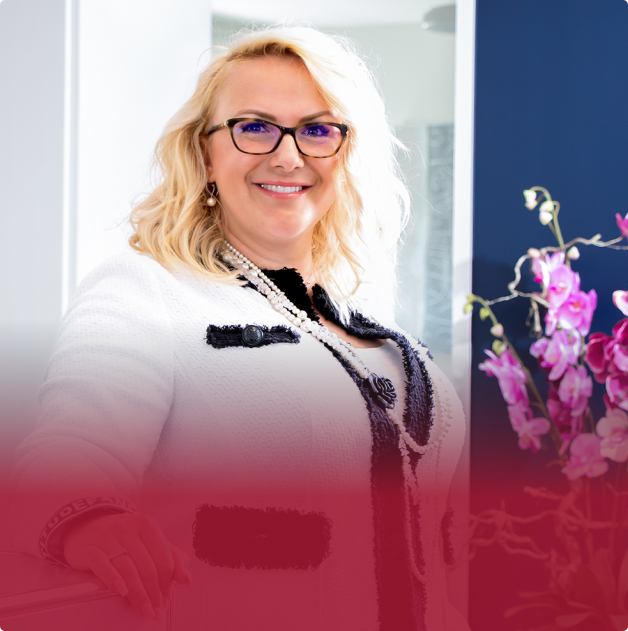
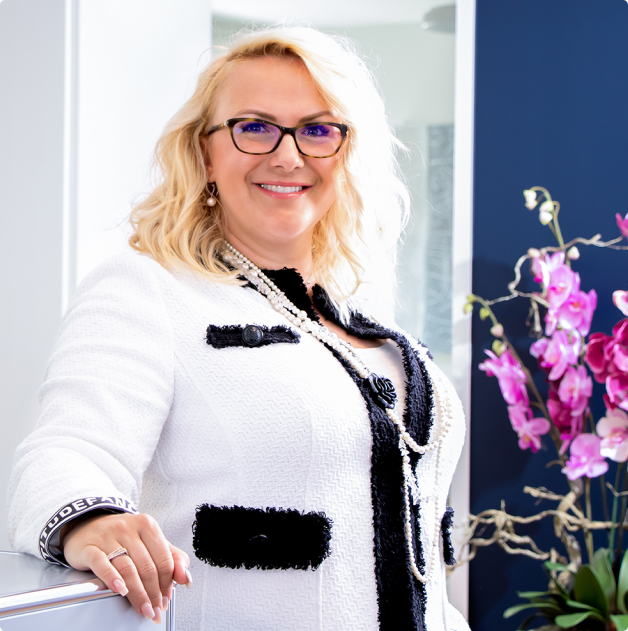
animation

diff --git a/src/components/SommesNous/Notaires/Notaires.jsx b/src/components/SommesNous/Notaires/Notaires.jsx
@@ -6,32 +6,42 @@ export default function Notaires() {
   return (
     <div className="background-motif">
       <div className="container mx-auto px-5 lg:px-0 flex flex-col lg:flex-row items-center justify-center flex-wrap gap-5 py-28 ">
-        <div className="barbora px-5 rounded-md flex items-center pb-10 min-h-[631px] max-w-[628px] md:min-w-[628px] ">
-          <div className=" mt-[470px]">
-            <div className="flex items-center">
+        {/* Barbora */}
+        <Link
+          href="/barbora-regielova"
+          className="barbora rounded-md flex items-end min-h-[631px] max-w-[628px] md:min-w-[628px] group "
+        >
+          <div className="py-10 bg-gradient-to-t from-brand-red w-full px-5 rounded-b-lg lg:opacity-0 transition-all duration-300 ease-in-out  group-hover:opacity-100 lg:group-hover:translate-y-1">
+            <div className=" flex items-center pt-20 ">
               <h2 className="text-5xl text-white font-heading mr-5">
                 Barbora <br className="md:hidden" /> Riegelová
               </h2>
-              <Link href="/barbora-regielova">
+              <div className="relative">
                 <Image src={fleche} height="auto" alt="icon fleche" />
-              </Link>
+                <span className="bg-yellow-500 h-12 w-12 rounded-full absolute top-0 animate-ping lg:hidden"></span>
+              </div>
             </div>
             <p className=" text-2xl text-white mt-3 border-brand-yellow border-b">
               Master of law, notaire du canton de Berne
             </p>
             <p className="text-brand-yellow text-xl ">info@notariat-biel.ch</p>
           </div>
-        </div>
+        </Link>
 
-        <div className="regula px-5 rounded-md flex items-center pb-10 min-h-[631px] max-w-[628px] md:min-w-[628px] ">
-          <div className=" mt-[470px]">
-            <div className="flex items-center">
+        {/* regula */}
+        <Link
+          href="/contact"
+          className="regula rounded-md flex items-end min-h-[631px] max-w-[628px] md:min-w-[628px] group "
+        >
+          <div className="py-10 bg-gradient-to-t from-brand-red w-full px-5 rounded-b-lg lg:opacity-0 transition-all duration-300 ease-in-out  group-hover:opacity-100 lg:group-hover:translate-y-1">
+            <div className=" flex items-center pt-20 ">
               <h2 className="text-5xl text-white font-heading mr-5">
                 Regula <br className="md:hidden" /> Stettler
               </h2>
-              <Link href="/contact">
+              <div className="relative">
                 <Image src={fleche} height="auto" alt="icon fleche" />
-              </Link>
+                <span className="bg-yellow-500 h-12 w-12 rounded-full absolute top-0 animate-ping lg:hidden"></span>
+              </div>
             </div>
             <p className=" text-2xl text-white mt-3 border-brand-yellow border-b">
               Employée de notaire certifiée
@@ -40,36 +50,46 @@ export default function Notaires() {
               regula.stettler@notariat-biel.ch
             </p>
           </div>
-        </div>
+        </Link>
 
-        <div className="maria px-5 rounded-md flex items-center pb-10 min-h-[631px] max-w-[628px] md:min-w-[628px] ">
-          <div className=" mt-[470px]">
-            <div className="flex items-center">
+        {/* Maria */}
+        <Link
+          href="/contact"
+          className="maria rounded-md flex items-end min-h-[631px] max-w-[628px] md:min-w-[628px] group "
+        >
+          <div className="py-10 bg-gradient-to-t from-brand-red w-full px-5 rounded-b-lg lg:opacity-0 transition-all duration-300 ease-in-out  group-hover:opacity-100 lg:group-hover:translate-y-1">
+            <div className=" flex items-center pt-20 ">
               <h2 className="text-5xl text-white font-heading mr-5">
                 Maria <br className="md:hidden" /> Righenzi
               </h2>
-              <Link href="/contact">
+              <div className="relative">
                 <Image src={fleche} height="auto" alt="icon fleche" />
-              </Link>
+                <span className="bg-yellow-500 h-12 w-12 rounded-full absolute top-0 animate-ping lg:hidden"></span>
+              </div>
             </div>
             <p className=" text-2xl text-white mt-3 border-brand-yellow border-b">
               Employée de notaire certifiée
             </p>
-            <p className="text-brand-yellow text-xl">
+            <p className="text-brand-yellow text-xl ">
               maria.righenzi@notariat-biel.ch
             </p>
           </div>
-        </div>
+        </Link>
 
-        <div className="carla px-5 rounded-md flex items-center pb-10 min-h-[631px] max-w-[628px] md:min-w-[628px] ">
-          <div className=" mt-[470px]">
-            <div className="flex items-center">
+        {/* Carla */}
+        <Link
+          href="/contact"
+          className="carla rounded-md flex items-end min-h-[631px] max-w-[628px] md:min-w-[628px] group "
+        >
+          <div className="py-10 bg-gradient-to-t from-brand-red w-full px-5 rounded-b-lg lg:opacity-0 transition-all duration-300 ease-in-out  group-hover:opacity-100 lg:group-hover:translate-y-1">
+            <div className=" flex items-center pt-20 ">
               <h2 className="text-5xl text-white font-heading mr-5">
                 Carla <br className="md:hidden" /> Hartmann
               </h2>
-              <Link href="/contact">
+              <div className="relative">
                 <Image src={fleche} height="auto" alt="icon fleche" />
-              </Link>
+                <span className="bg-yellow-500 h-12 w-12 rounded-full absolute top-0 animate-ping lg:hidden"></span>
+              </div>
             </div>
             <p className=" text-2xl text-white mt-3 border-brand-yellow border-b">
               Assistante juridique
@@ -78,7 +98,7 @@ export default function Notaires() {
               sekretariat@notariat-biel.ch
             </p>
           </div>
-        </div>
+        </Link>
       </div>
     </div>
   );
